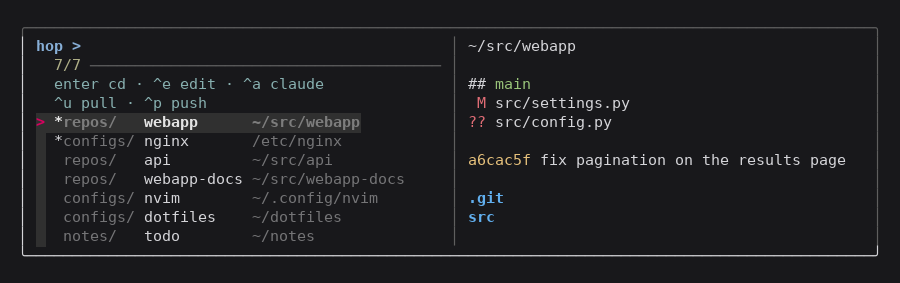
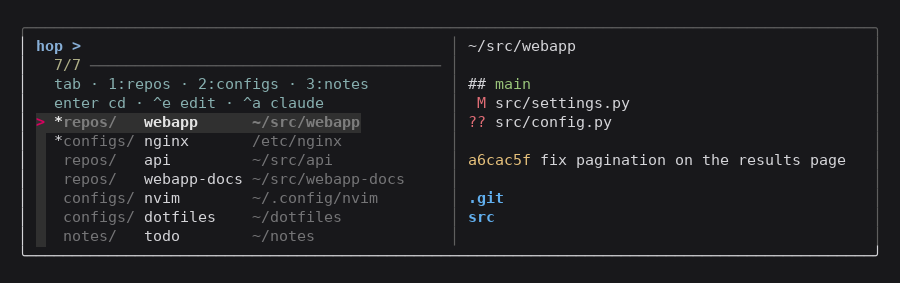
Category switching on one key, and a layout that fits a phone
Typing is the expensive part on a phone, so filtering by query was the wrong
primary interaction. tab now walks the categories and shift-tab goes back,
with alt-1..9 jumping straight to one; index 0 is "all", so tab eventually
returns you to the whole list. That is the left-hand category pane from the
original sketch, flattened into a header strip, which is what fits a narrow
screen. fzf has one list and no `transform` action in 0.37, so the state lives
in a temp file and tab triggers a reload.

Layout now reads the terminal width. Below 90 columns the preview starts
hidden (^o toggles), and below 46 the path column drops. At 40 columns the
list is category and name only and still readable.

Row widths are computed from the whole set rather than the filtered subset, so
cycling categories does not make the columns jitter.

Second screenshot at 44 columns, since narrow is now a feature rather than a
degradation. Both are captured from the picker actually running.

Changed region(s): [[0.0622, 0.2827, 0.4044, 0.3958]]

diff --git a/README.md b/README.md
@@ -1,6 +1,7 @@
 # hop
 
-Bookmarks for the directories you work in. Type to filter, enter to land there.
+Bookmarks for the directories you work in. `tab` walks the categories, arrows
+pick, `enter` lands you there. Type to filter if you would rather.
 
 ![hop listing bookmarked directories, filtered by typing, with a git status preview of the selected repo](docs/demo.png)
 
@@ -8,6 +9,14 @@ Bookmarks for the directories you work in. Type to filter, enter to land there.
 in `$EDITOR`, pull, push, start an agent.
 
 Bash and `fzf`. No runtime, no build. Works over SSH.
+
+## Narrow terminals
+
+The layout adapts. Below 90 columns the preview hides (`^o` brings it back);
+below 46 the path column goes. Switching category is one key rather than a
+typed query, which is what makes it usable on a phone or in a thin split.
+
+![the same picker at 44 columns: no preview, no path column, categories still one key away](docs/demo-narrow.png)
 
 ## Install
 

diff --git a/docs/bookmarks.md b/docs/bookmarks.md
@@ -76,11 +76,14 @@ One list can therefore serve machines with different layouts.
 
 | Key | Does |
 |---|---|
+| `tab` / `shift-tab` | next / previous category, then back to all |
+| `alt-1`..`alt-9` | jump straight to a category |
 | type | filter, category names match too |
 | `enter` | cd there |
 | `^e` | open in `$EDITOR` |
 | `^a` | run `claude` there, then land there |
 | `^u` | `git pull` |
 | `^p` | `git push` |
+| `^o` | show or hide the preview |
 
 `hop web` starts with `web` already typed.
